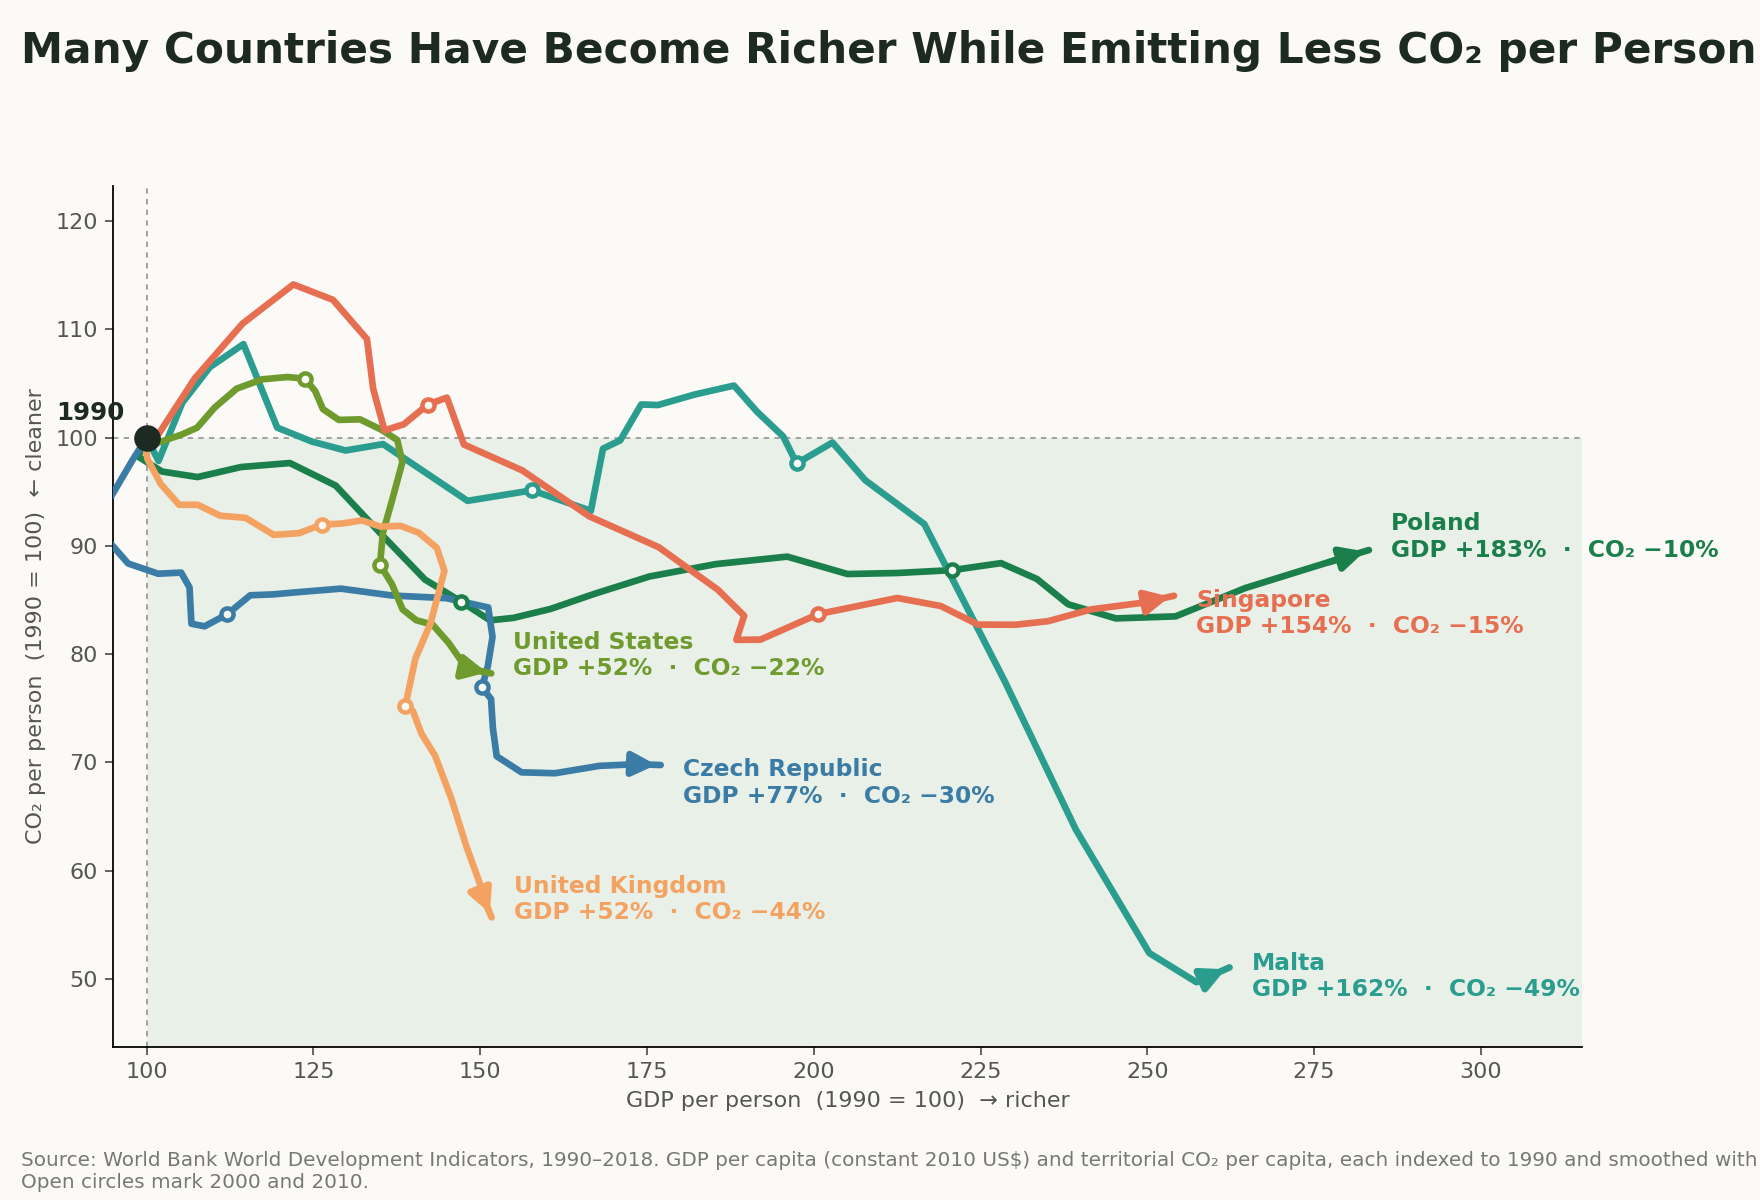
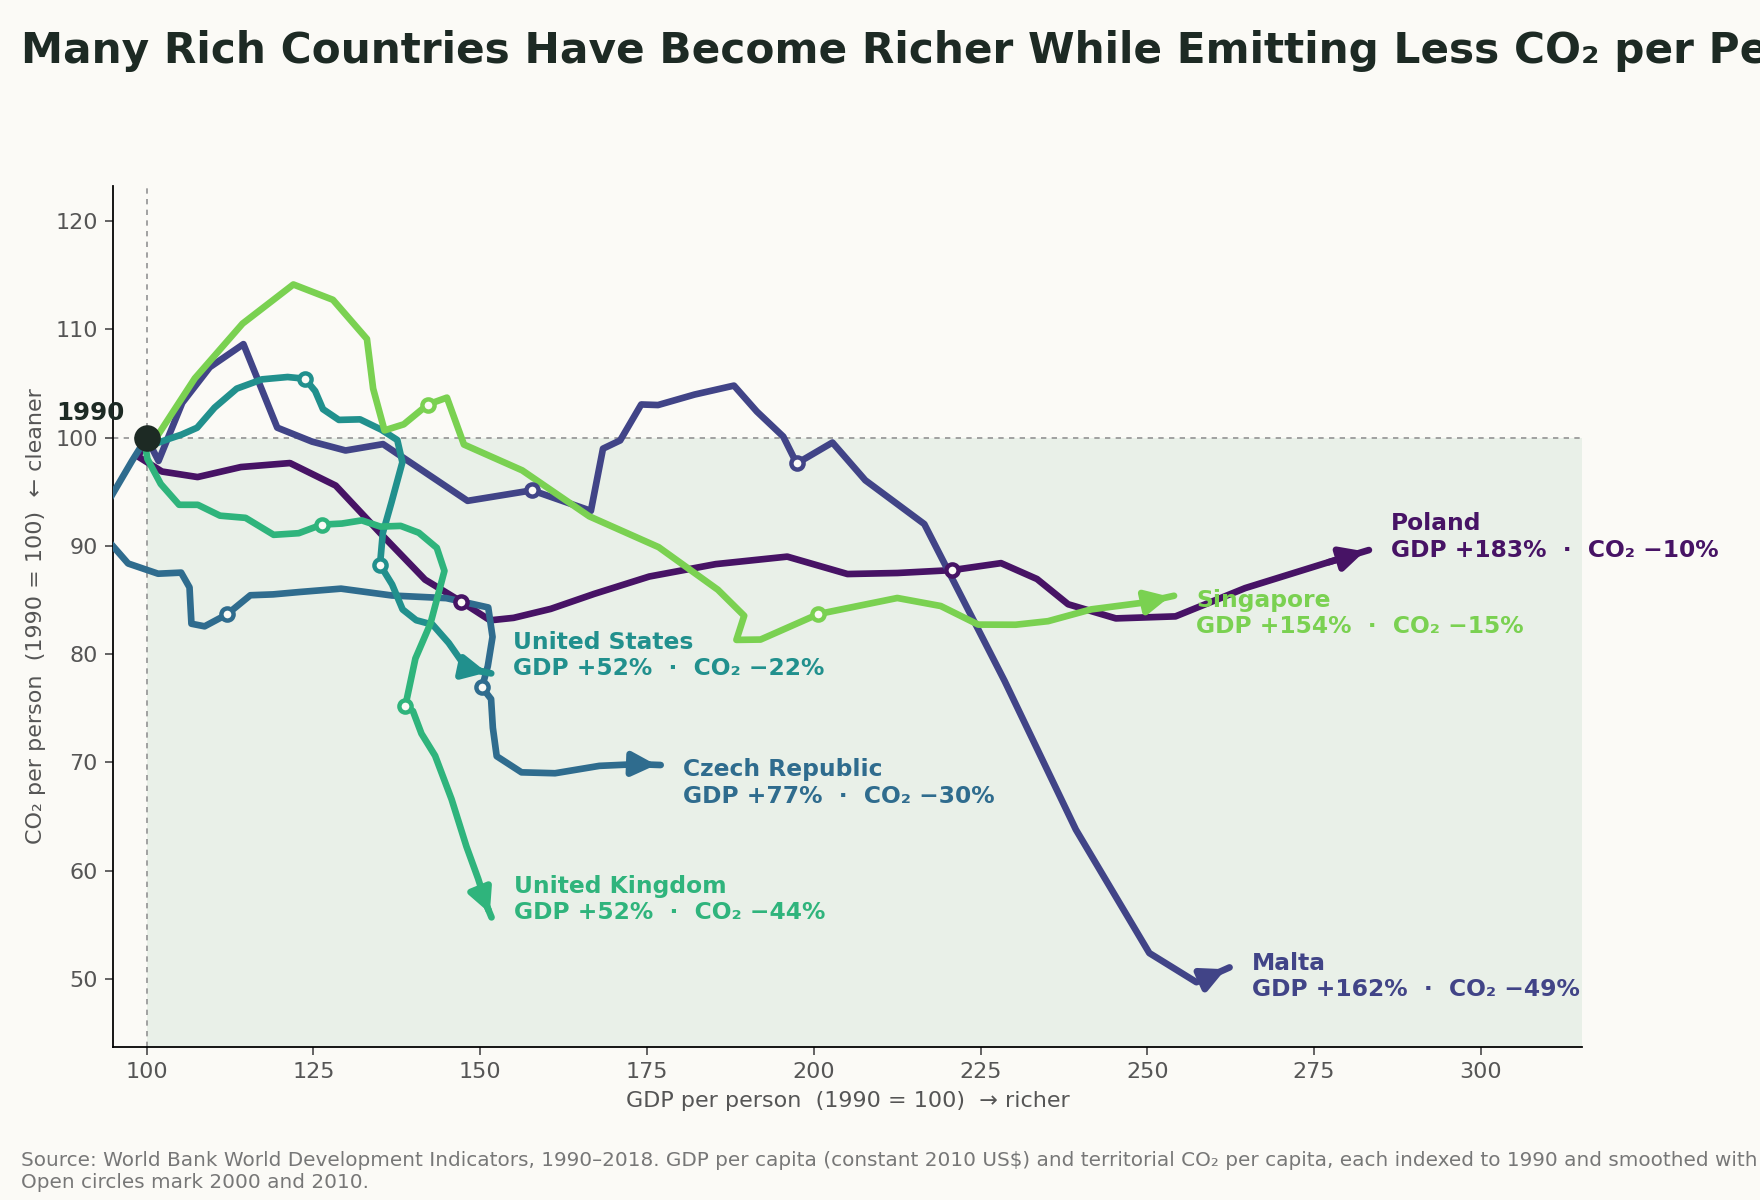
images

diff --git a/projects/project2/index.html b/projects/project2/index.html
@@ -182,37 +182,42 @@
 
         <figure>
           <img src="page1_trajectories.png"
-               alt="Connected line plot of GDP and CO2 per person, indexed to 1990 (=100) emission levels, for a mix of high-income countries. In each country the economy grew while per-capita emissions fell.">
-          <figcaption>GDP and CO<sub>2</sub> per person, indexed to 1990 (=100) emission levels, for four high-income countries. In each country the economy grew while per-capita emissions fell.</figcaption>
+               alt="Connected line plot of GDP and CO2 per person, indexed to 1990 (=100) levels, for a mix of high-income countries. In each country the economy grew while per-capita emissions fell.">
+          <figcaption>GDP and CO<sub>2</sub> per person, indexed to 1990 (=100) levels, for high-income countries. In each country the economy grew while per-capita emissions fell.</figcaption>
         </figure>
 
         <p>Design Decisions and Rationale:</p>
 
         <ul>
           <li>
-            <span class="score dec">−1</span>
+            <span class="score dec">-1</span>
             <strong>Hand-picked countries with 1990 as a reference point.</strong>
-            The visualization hand picks countries that exhibit success stories in recent history. The index on the 
+            The visualization hand picks countries that exhibit success stories in recent history, and notably are labeled high-income by the World Bank. The index on the 
             left axis is set to 100 in 1990, for both carbon and dollars, so that the reader can quickly see the 
             effect of rising GDP and falling emissions. The choice of 1990 is not arbitrary, as it is the baseline year used by the Kyoto Protocol.
             It is worth noting that the choice of countries and reference year is a form of cherry-picking, 
             which could either be an honest exhibition of countries that represent proof of progress or a misleading selection of data.
-            Here I believe it is likely a deceptive choice, as the audience may be led to believe that these four countries are representative 
+            Here I believe it is likely a deceptive choice, as the audience may be led to believe that these countries are representative 
             of all rich countries, when in fact they are not.
           </li>
           <li>
-            <span class="score dec">−1</span>
+            <span class="score dec">-1</span>
             <strong>Clipped axes, messy trend lines, and 3-year rolling averages.</strong>
             The x-axis and y-axis are both clipped to the range of the data, which makes the lines look more dramatic than they would if the axes were extended to 0. 
             The trend lines are also messy, with some lines crossing over each other or even moving backwards (due to GDP falling or growing).
-            The lines are also smoothed with a 3-year rolling average, which is a reasonable choice to reduce noise, but it also makes the lines less smooth than they would be if the raw data were plotted.
-            These two choices are likely to be misleading, as they exaggerate the effect of rising GDP and falling emissions. They also make it difficult to 
-            compare the countries, as the lines are not smooth and the axes are not consistent.
+            The lines are also smoothed with a 3-year rolling average, which is a reasonable choice to reduce noise, but it also makes the lines smoother than they would be if the raw data were plotted.
+            These choices are likely to be misleading, as they exaggerate the effect of rising GDP and falling emissions.
+          </li>
+          <li>
+            <span class="score dec">-0.5</span>
+            <strong>Title framing</strong>
+            The title says "Many Rich Countries" even though only six hand-picked countries are shown, which invites the reader to generalize. 
+            The axis labels and the shaded quadrant tell the reader how to interpret the chart before they look at the numbers, and the arrows pointing reinforces the idea that this trend will continue.
           </li>
           <li>
             <span class="score dec">-0.5</span>
             <strong>Lighter colors</strong>
-            The plots use lighter colors for the background, playful colors for the lines, and axes to try and make the chart feel more friendly and less serious.
+            The background is a light cream and the lines use blues and greens from the viridis palette, an established, colorblind-safe colormap, so the chart feels hopeful rather than alarming.
             This is a subtle choice, but it makes the chart feel more persuasive of the hopeful proposition that emissions and GDP can be separated.
           </li>
         </ul>
@@ -223,7 +228,7 @@
 
         <figure>
           <img src="page2_income_ladder.png"
-               alt="Dark-background bar chart of median CO2 emissions per person in 2018 for ten equal-size groups of countries ordered by GDP per person.">
+               alt="Light-background bar chart of median CO2 emissions per person in 2018 for ten equal-size groups of countries ordered by GDP per person.">
            <figcaption>Median CO<sub>2</sub> per person in 2018, with every country grouped into ten equal-size bands by GDP per person. Each step up the income ladder brings higher emissions.</figcaption>
         </figure>
 
@@ -231,7 +236,7 @@
 
         <ul>
           <li>
-            <span class="score dec">−1.5</span>
+            <span class="score dec">-1.5</span>
             <strong>Answering a time question with a static snapshot.</strong>
             Separation of emissions and GDP could be interpreted as a change over time within countries, but our chart is a
             cross-country comparison for a single year. It shows that richer countries emit more per person in 2018, but
@@ -239,15 +244,22 @@
             as it is easy to interpret and to avoid the complexity of showing a time series for every country.
           </li>
           <li>
-            <span class="score ear">-0.5</span>
+            <span class="score dec">-0.5</span>
             <strong>Grouping countries by income and showing the median.</strong>
             Instead of plotting each country, I split all countries into ten equal-size groups by GDP per person and show each
             group's median emissions. This is a clean visual that is easy to read. But it
-            also hides the variation inside each group as low emitting countries like those in the other visual are
+            also hides the variation inside each group as low emitting countries, like Sweden, are
             grouped with high emitting countries. 
           </li>
           <li>
-            <span class="score dec">+0.5</span>
+            <span class="score dec">-1</span>
+            <strong>Grey to red gradient and title</strong>
+            The bars shift from grey to red as income rises, tying wealth to danger visually before the reader reads any text. 
+            The annotation tells the reader what to think, and the title "Higher GDP Countries Emit More" frames this as a direct consequence of wealth.
+            Both are accurate, but they invite the reader to treat getting richer as the cause rather than possible a correlation.
+          </li>
+          <li>
+            <span class="score ear">+1</span>
             <strong>Linear axis starting at zero.</strong>
             The y-axis is linear and starts at zero, which is the conventional, honest choice for a bar chart. This is an earnest
             design choice that doesn't omit any data and allows the reader to see the true magnitude of the differences between groups.
